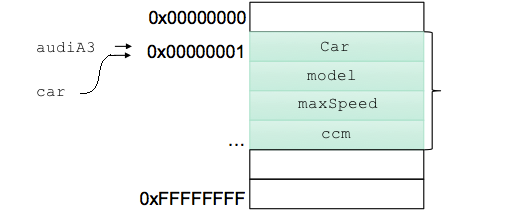
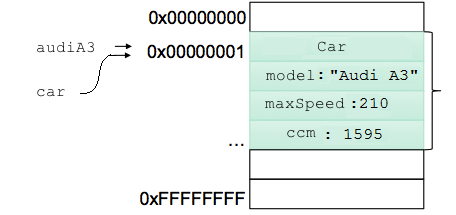
Corrected pass by sharing in 2.1-OOP

Changed region(s): [[0.0614, 0.0, 0.9825, 0.9767], [0.5833, 0.1953, 0.7675, 0.2512], [0.0614, 0.3907, 0.2149, 0.4465]]

diff --git a/Courses/Mathesis/Intro2Java/Week2/2.1-OOP/README.md b/Courses/Mathesis/Intro2Java/Week2/2.1-OOP/README.md
@@ -253,7 +253,11 @@ $2 ==> "Audi A3"
 
 ![](assets/Fig4.png)
 
-**Εικόνα 2.1.4** _Κλήση by sharing στη Java_
+**Εικόνα 2.1.4** _Κλήση by sharing στη Java, µέθοδος setSpeed()_
+
+![](assets/Fig5.png)
+
+**Εικόνα 2.1.5** _Κλήση by sharing στη Java, μέθοδος createCar()_
  
 Αν θέλουμε όντως η μέθοδος να δημιουργήσει ένα νέο αντικείμενο, θα πρέπει η μέθοδος να επιστρέψει το νέο αντικείμενο όπως στην παρακάτω _μέθοδο κατασκευής (factory method)_:
 
